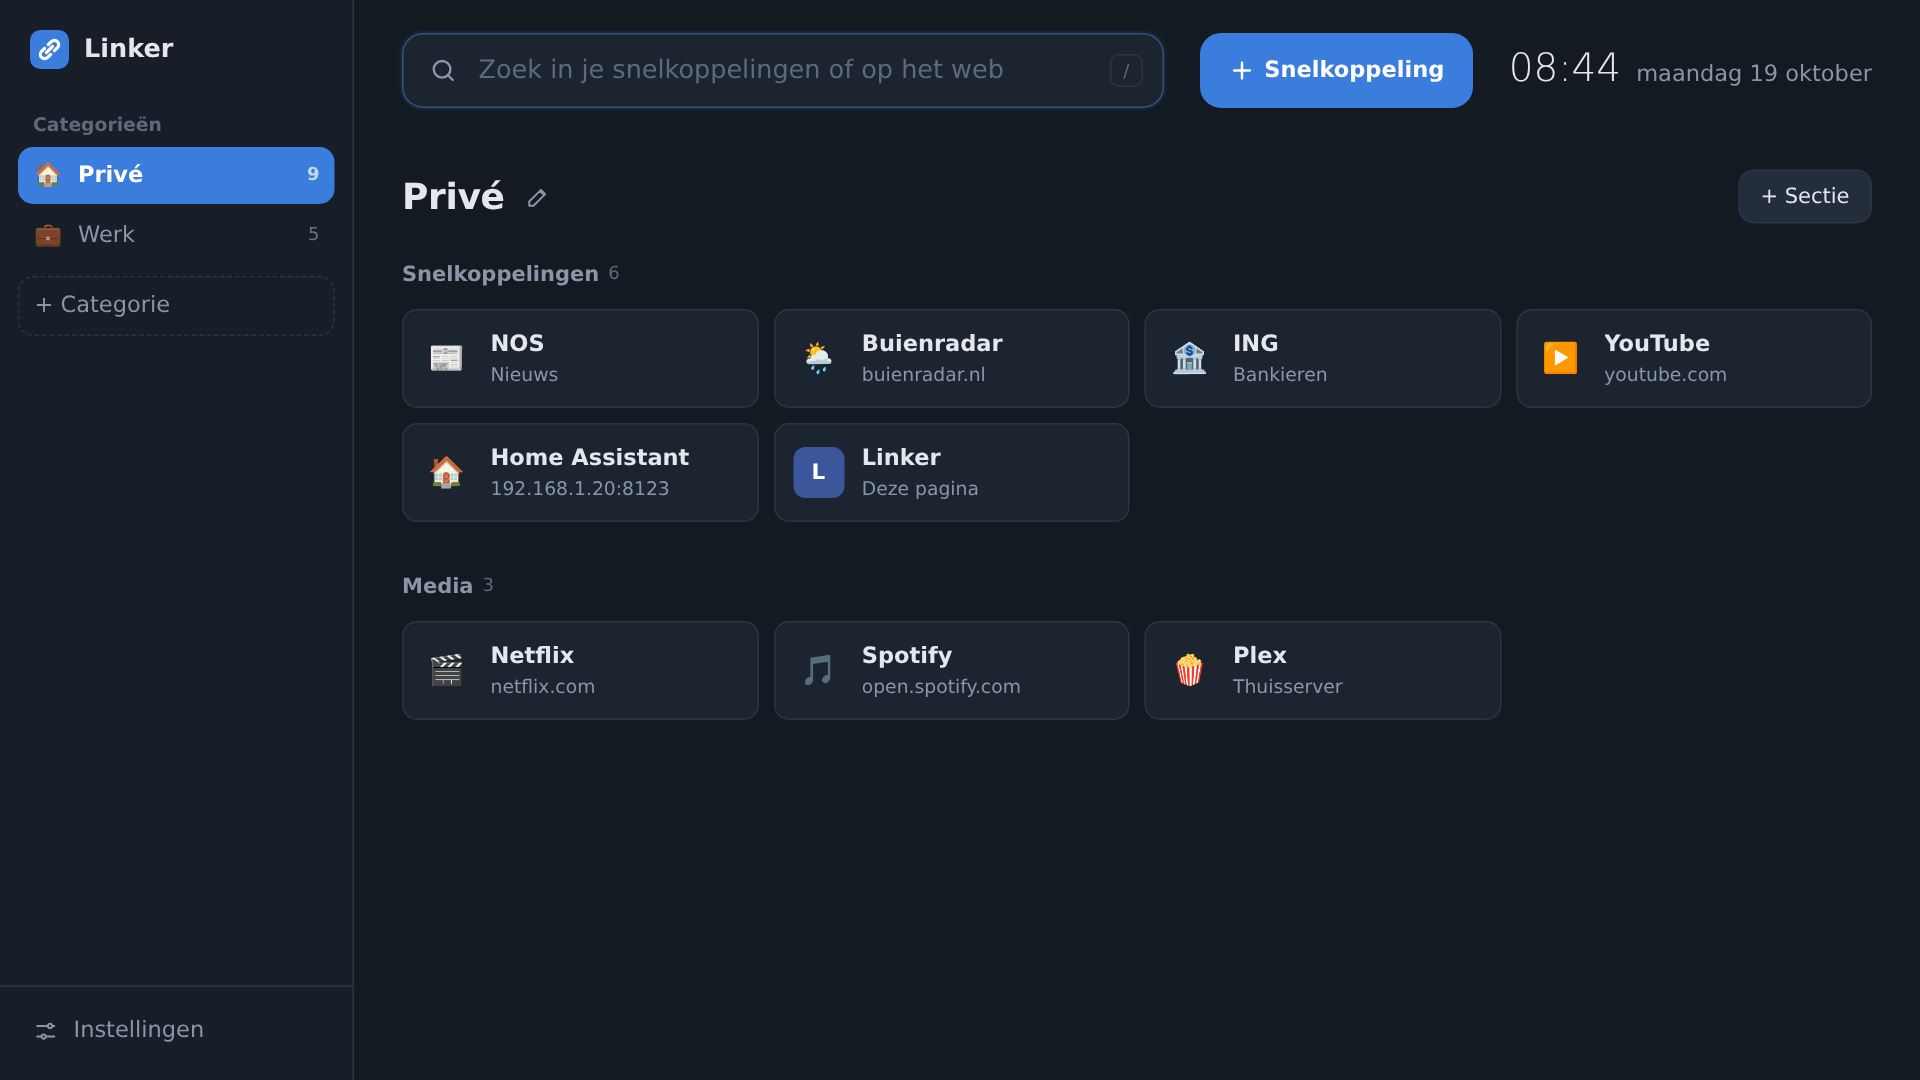
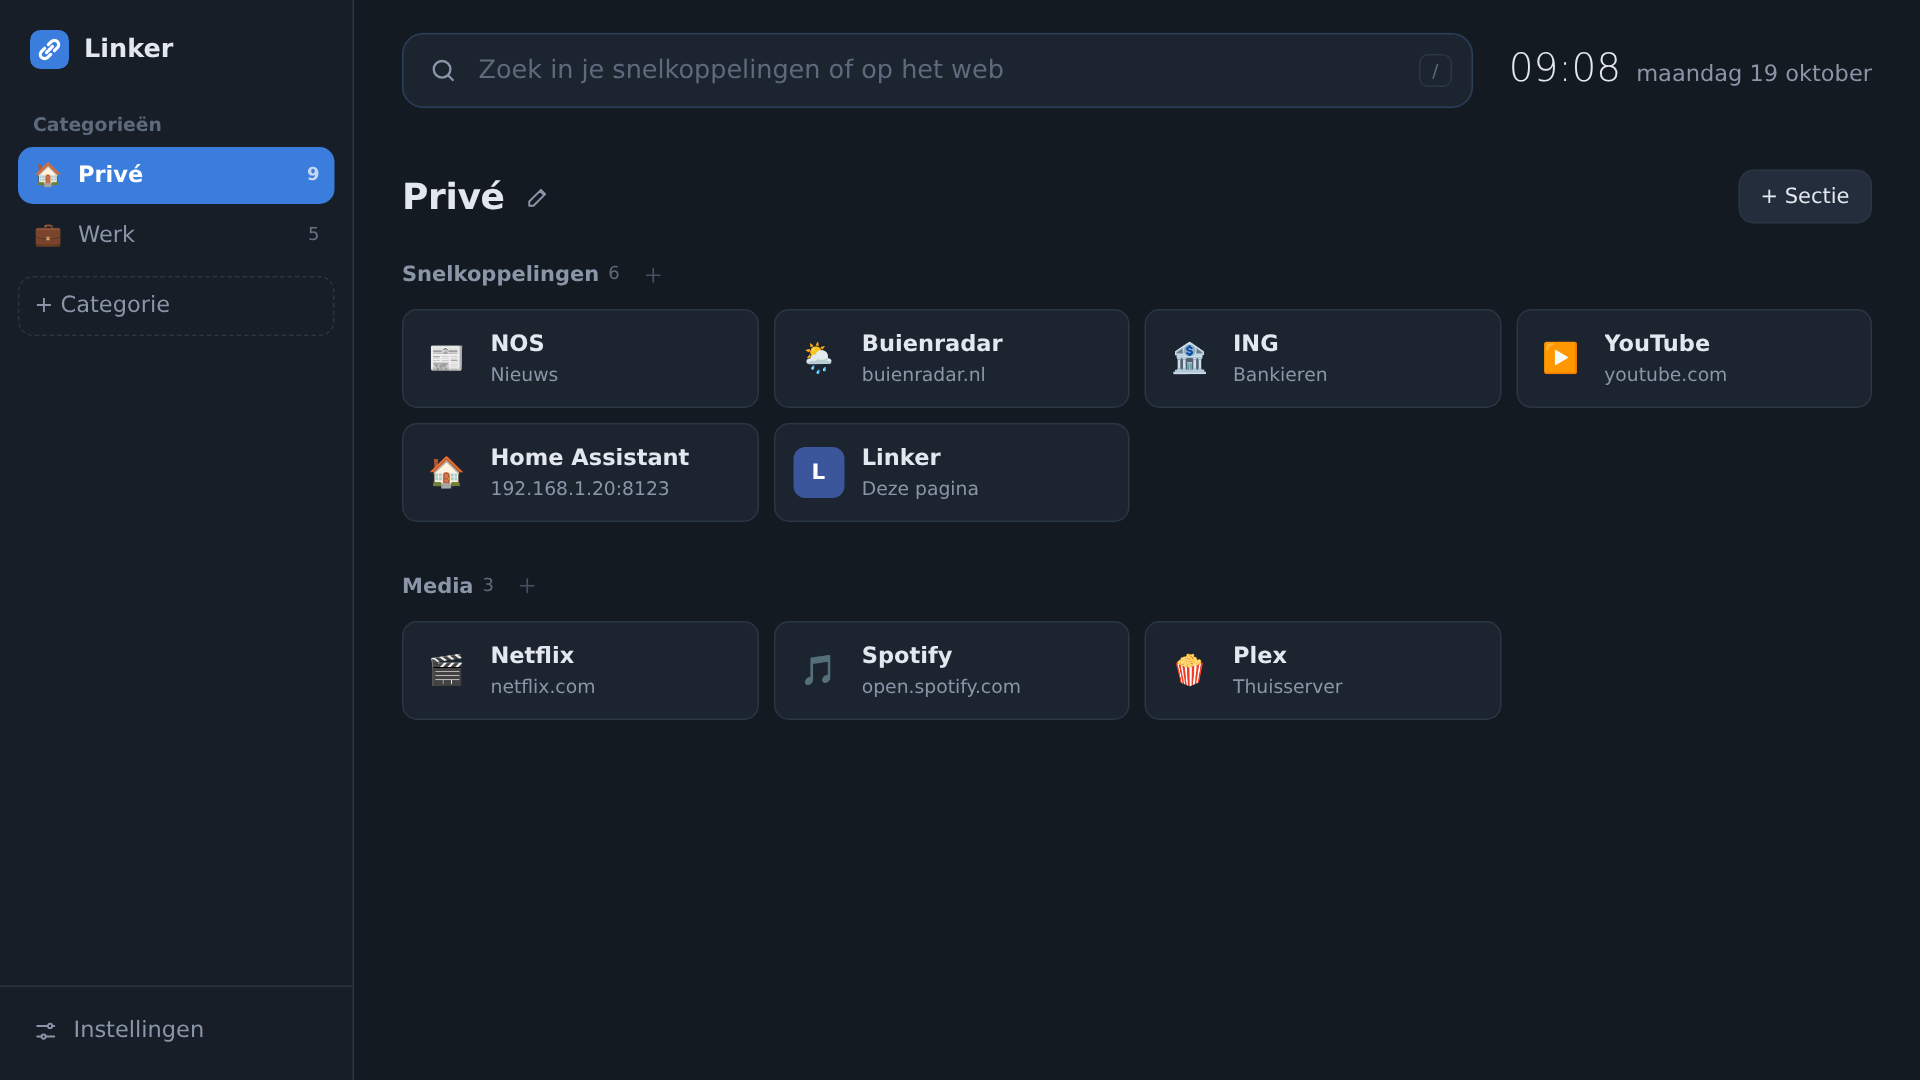
Subtiele + per sectie, online-controle direct zichtbaar en standaard uit (0.2.3)

Changed region(s): [[0.625, 0.0306, 0.7812, 0.1222], [0.8125, 0.0306, 0.8438, 0.0917]]

diff --git a/app/static/app.js b/app/static/app.js
@@ -120,8 +120,8 @@ function sectionHTML(sec, opts = {}) {
     <div class="section-head">
       <h2 class="section-name" id="s${sec.id}">${path ? `<span class="section-path">${esc(path)} / </span>` : ""}${esc(sec.name)}</h2>
       <span class="section-count">${links.length || ""}</span>
-      ${searching ? "" : `<span class="section-tools">
-        <button type="button" class="mini" data-add-link="${sec.id}" title="Snelkoppeling toevoegen">${SVG.plus}</button>
+      ${searching ? "" : `<button type="button" class="mini add-inline edit-only" data-add-link="${sec.id}" title="Snelkoppeling toevoegen aan ${esc(sec.name)}" aria-label="Snelkoppeling toevoegen aan ${esc(sec.name)}">${SVG.plus}</button>
+      <span class="section-tools">
         <button type="button" class="mini" data-sort="${sec.id}" title="Sorteren van A tot Z">${SVG.az}</button>
         <button type="button" class="mini" data-edit-section="${sec.id}" title="Sectie bewerken">${SVG.edit}</button>
         <span class="mini grip section-grip" title="Slepen om de sectie te verplaatsen">${SVG.grip}</span>
@@ -129,7 +129,7 @@ function sectionHTML(sec, opts = {}) {
     </div>
     <div class="cards">
       ${links.map(l => cardHTML(l, terms)).join("")}
-      ${searching || links.length ? "" : `<button type="button" class="add-card edit-only" data-add-link="${sec.id}">+ Snelkoppeling</button>`}
+      ${searching || links.length ? "" : `<button type="button" class="add-card edit-only" data-add-link="${sec.id}" aria-label="Snelkoppeling toevoegen">+</button>`}
     </div>
   </section>`;
 }
@@ -187,7 +187,7 @@ function renderBoard() {
   } else {
     board.innerHTML = col.sections.map(s => sectionHTML(s)).join("");
     if (!col.sections.some(s => s.links.length)) {
-      board.insertAdjacentHTML("afterbegin", `<p class="first-tip edit-only">Plak een adres met <kbd>Ctrl</kbd>+<kbd>V</kbd>, sleep een link uit een ander tabblad hierheen, of gebruik <b>+ Snelkoppeling</b>.</p>`);
+      board.insertAdjacentHTML("afterbegin", `<p class="first-tip edit-only">Plak een adres met <kbd>Ctrl</kbd>+<kbd>V</kbd>, sleep een link uit een ander tabblad hierheen, of klik op de <b>+</b> naast een sectie.</p>`);
     }
   }
   selectedId = null;
@@ -418,7 +418,6 @@ document.addEventListener("click", async e => {
   if (t.closest("[data-add-section]") || t.closest("#add-section")) return openName("section");
   if (t.closest("#edit-collection")) return openName("collection", currentId);
   if (t.closest("#add-collection")) return withEdit(() => openName("collection"));
-  if (t.closest("#add-shortcut")) return openLink(null, null);
   const sort = t.closest("[data-sort]");
   if (sort) {
     try { await api("POST", `/api/sections/${sort.dataset.sort}/sort`); await reload(); toast("Gesorteerd van A tot Z"); }
@@ -535,12 +534,7 @@ const setError = (form, msg) => ($(".form-error", form).textContent = msg || "")
 const dlgLink = $("#dlg-link"), formLink = $("#form-link");
 let linkEditId = null;
 
-let nameTouched = false, checkTouched = false, afterSave = null;
-
-function isLocalAddress(url) {
-  const host = hostOf(/^[a-z]+:\/\//i.test(url) ? url : "http://" + url).split(":")[0].toLowerCase();
-  return host === "localhost" || /^(\d{1,3}\.){3}\d{1,3}$/.test(host) || /\.(lan|local|home|internal)$/.test(host) || !host.includes(".");
-}
+let nameTouched = false, afterSave = null;
 
 async function openLink(id, sectionId, prefill = {}) {
   if (!state.can_edit && !(await openUnlock())) return;
@@ -560,10 +554,9 @@ async function openLink(id, sectionId, prefill = {}) {
   formLink.section_id.value = String(link?.section_id || sectionId || firstSection);
   if (!formLink.section_id.value) formLink.section_id.selectedIndex = 0;
   nameTouched = !!(link || prefill.name);
-  checkTouched = !!link;
-  formLink.check_enabled.checked = link ? link.check_enabled : (!!formLink.url.value && isLocalAddress(formLink.url.value));
+  formLink.check_enabled.checked = link ? link.check_enabled : false;
   $("details details", formLink).open = !!link?.check_url;
-  $("#more-opts").open = !!(link && (link.description || link.icon || link.check_enabled || link.check_url));
+  $("#more-opts").open = !!(link && (link.description || link.icon || link.check_url));
   $('[data-act="delete"]', formLink).hidden = !link;
   $("#name-hint").hidden = !!link;
   setError(formLink);
@@ -594,10 +587,8 @@ function fetchTitle() {
 formLink.url.addEventListener("input", () => {
   titleFor = "";
   fetchTitle();
-  if (!checkTouched && !linkEditId) formLink.check_enabled.checked = !!formLink.url.value.trim() && isLocalAddress(formLink.url.value.trim());
 });
 formLink.name.addEventListener("input", () => (nameTouched = formLink.name.value.trim() !== ""));
-formLink.check_enabled.addEventListener("change", () => (checkTouched = true));
 
 let previewTimer = null;
 function updatePreview() {

diff --git a/app/templates/index.html b/app/templates/index.html
@@ -46,9 +46,6 @@
                aria-describedby="search-hint">
         <kbd class="slash" aria-hidden="true">/</kbd>
       </div>
-      <button type="button" class="btn primary add-shortcut edit-only" id="add-shortcut" title="Snelkoppeling toevoegen (of plak een adres met Ctrl+V)">
-        <svg viewBox="0 0 24 24" aria-hidden="true"><path d="M12 5v14M5 12h14"/></svg><span>Snelkoppeling</span>
-      </button>
       <p class="clock" id="clock"><time id="time"></time><span id="date"></span></p>
     </div>
     <p class="search-hint" id="search-hint" aria-live="polite"></p>
@@ -74,8 +71,9 @@
       <label class="wide">Adres<input name="url" required placeholder="https://voorbeeld.nl of 192.168.1.10:8989" inputmode="url" autocomplete="off"></label>
       <label class="wide">Naam <span class="opt" id="name-hint">(leeg = titel van de pagina)</span><input name="name" maxlength="80"></label>
       <label class="wide">Categorie en sectie<select name="section_id"></select></label>
+      <label class="check wide" title="Toont een groen of rood bolletje bij de snelkoppeling."><input type="checkbox" name="check_enabled"> Controleren of hij online is</label>
       <details class="wide more" id="more-opts">
-        <summary>Meer opties: omschrijving, icoon, online-controle</summary>
+        <summary>Meer opties: omschrijving, icoon</summary>
         <div class="fields">
           <label class="wide">Omschrijving <span class="opt">(optioneel)</span><input name="description" maxlength="200" placeholder="bv. Teamplanning"></label>
           <div class="wide icon-field">
@@ -84,9 +82,8 @@
             <div class="icon-preview" id="icon-preview" aria-hidden="true"></div>
           </div>
           <p class="help wide">Leeg laten pakt het icoon van de site zelf. Typ de naam van een app (<code>outlook</code>, <code>plex</code>, <code>home-assistant</code>) voor een icoon uit dashboard-icons of selfh.st, plak een afbeeldingsadres, upload een eigen bestand of gebruik een emoji.</p>
-          <label class="check wide" title="Toont een groen of rood bolletje. Handig voor diensten in je thuisnetwerk."><input type="checkbox" name="check_enabled"> Controleren of hij online is</label>
           <details class="wide">
-            <summary>Ander adres voor de controle</summary>
+            <summary>Ander adres voor de online-controle</summary>
             <label>Controle-adres<input name="check_url" placeholder="http://sonarr:8989"></label>
             <p class="help">Handig als de snelkoppeling via je domein loopt, maar Linker de dienst intern sneller bereikt (bv. via de containernaam).</p>
           </details>

diff --git a/app/static/style.css b/app/static/style.css
@@ -293,8 +293,6 @@ body:not(.can-edit) .edit-only, body:not(.can-edit) .section-tools, body:not(.ca
 
 /* ------------------------------------------------ snelkoppelingen verzamelen */
 .side-label { margin: 6px 10px 6px; font-size: 12.5px; font-weight: 600; color: var(--faint); }
-.add-shortcut { gap: 6px; height: 50px; padding: 0 18px; border-radius: var(--radius-lg); font-size: 15px; flex: none; }
-.add-shortcut svg { width: 18px; height: 18px; fill: none; stroke: currentColor; stroke-width: 2.2; stroke-linecap: round; }
 .bookmarklet { cursor: grab; border-style: dashed; }
 .first-tip { margin: 0 0 18px; padding: 12px 14px; border: 1px dashed var(--line); border-radius: var(--radius); color: var(--muted); font-size: 14px; }
 .first-tip kbd { font: 12px var(--font); padding: 0 5px; border: 1px solid var(--line); border-radius: 4px; }
@@ -304,9 +302,14 @@ body:not(.can-edit) .edit-only, body:not(.can-edit) .section-tools, body:not(.ca
 @media (max-width: 760px) {
   .side-label { display: none; }
   .topbar { gap: 8px; }
-  .add-shortcut { width: 50px; padding: 0; }
-  .add-shortcut span { display: none; }
   .first-tip { display: none; }
 }
 .dlg details.more { border-top: 1px solid var(--line); padding-top: 12px; }
 .dlg details.more > .fields { margin-top: 12px; }
+
+/* Subtiele + naast de sectienaam */
+.add-inline { width: 24px; height: 24px; color: var(--faint); opacity: .7; }
+.add-inline svg { width: 15px; height: 15px; }
+.section-head:hover .add-inline, .add-inline:focus-visible { opacity: 1; color: var(--accent); }
+.has-bg .add-inline { color: rgba(255, 255, 255, .7); }
+.add-card { font-size: 20px; text-align: center; color: var(--faint); }

diff --git a/README.md b/README.md
@@ -10,7 +10,7 @@ Alles draait in één container met SQLite. De pagina laadt geen scripts, fonts 
 
 - **Categorieën → secties → snelkoppelingen.** Bij de eerste start staan *Privé* en *Werk* klaar. Wisselen met een klik of `Alt`+`1` tot `9`; Linker onthoudt waar je was.
 - **Snel toevoegen**, op vier manieren:
-  - de knop **+ Snelkoppeling**: vul alleen het adres in, de naam wordt de titel van de pagina;
+  - de **+** naast een sectie: vul alleen het adres in, de naam wordt de titel van de pagina;
   - **plak** een adres met `Ctrl`+`V` ergens op de pagina;
   - **sleep** een link of het adres uit een ander tabblad op de pagina (of op een sectie);
   - de **bladwijzer-knop "+ Naar Linker"** (te vinden in *Instellingen*): sleep hem naar je bladwijzerbalk en bewaar elke website met één klik. Na het opslaan ga je terug naar de pagina.
@@ -20,7 +20,7 @@ Alles draait in één container met SQLite. De pagina laadt geen scripts, fonts 
   - `Enter` opent de beste treffer, `↑` `↓` kiest een andere, `Esc` wist.
   - `Shift`+`Enter` zoekt op het web: DuckDuckGo, Google, Startpage, Bing, Brave, Kagi, Ecosia of een eigen zoekmachine.
 - **Iconen** zonder gedoe: automatisch het icoon van de site (ook voor diensten in je thuisnetwerk), of een appnaam zoals `outlook` of `plex` uit [dashboard-icons](https://github.com/homarr-labs/dashboard-icons) / [selfh.st/icons](https://github.com/selfhst/icons), een eigen upload, een afbeeldingsadres of een emoji. Iconen worden in `/config` bewaard.
-- **Online-controle** (optioneel per snelkoppeling): een groen of rood bolletje, ook op de categorie in de zijbalk. Staat standaard aan voor adressen in je thuisnetwerk.
+- **Online-controle** (optioneel per snelkoppeling): een groen of rood bolletje, ook op de categorie in de zijbalk. Zet je aan met het vinkje bij het toevoegen; standaard staat het uit.
 - **Uiterlijk**: licht, donker, OLED of automatisch, een eigen accentkleur, normale of compacte kaarten, en een eigen achtergrondafbeelding.
 - **Importeren** van de bladwijzers uit je browser (HTML-export uit Chrome, Firefox, Edge of Safari; elke map wordt een sectie), een ctrlTAB-back-up of een Linkwarden-export.
 - **Back-up** downloaden en terugzetten als JSON.
@@ -85,8 +85,8 @@ Open daarna http://localhost:5656.
 
 Alle wijzigingen per versie staan in [CHANGELOG.md](CHANGELOG.md) en onder [Releases](https://github.com/RichrdJ/linker/releases). Het versienummer van je installatie staat onderaan *Instellingen*.
 
-- `:latest` volgt `main`, `:0.2.2` is een vaste versie.
-- Wil je zelf bepalen wanneer je updatet? Zet dan een vast versienummer in `portainer-stack.yml`, bijvoorbeeld `:0.2.2`.
+- `:latest` volgt `main`, `:0.2.3` is een vaste versie.
+- Wil je zelf bepalen wanneer je updatet? Zet dan een vast versienummer in `portainer-stack.yml`, bijvoorbeeld `:0.2.3`.
 
 **Nieuwe versie uitbrengen:** werk `CHANGELOG.md` en `app/VERSION` bij, commit, en push met een tag:
 

diff --git a/CHANGELOG.md b/CHANGELOG.md
@@ -5,6 +5,12 @@ Versienummers volgen [Semantic Versioning](https://semver.org/lang/nl/): het mid
 
 Updaten in Portainer: open de stack → **Pull and redeploy**. De database wordt bij het opstarten automatisch bijgewerkt en je links blijven bewaard.
 
+## [0.2.3] - 2026-10-19
+
+### Gewijzigd
+- De grote knop *+ Snelkoppeling* naast de zoekbalk is weg. Toevoegen gaat nu met een subtiele **+** naast elke sectienaam, die direct in die sectie toevoegt. Plakken, slepen en de bladwijzer-knop werken zoals voorheen.
+- Het vinkje **Controleren of hij online is** staat direct zichtbaar in het toevoegvenster, niet meer onder *Meer opties*. Het staat standaard uit, ook voor adressen in je thuisnetwerk.
+
 ## [0.2.2] - 2026-10-19
 
 ### Gewijzigd
@@ -50,6 +56,7 @@ Updaten in Portainer: open de stack → **Pull and redeploy**. De database wordt
 - Installeerbaar als app (PWA).
 - Docker-image voor amd64 en arm64 via GitHub Actions, met PUID/PGID.
 
+[0.2.3]: https://github.com/RichrdJ/linker/compare/v0.2.2...v0.2.3
 [0.2.2]: https://github.com/RichrdJ/linker/compare/v0.2.1...v0.2.2
 [0.2.1]: https://github.com/RichrdJ/linker/compare/v0.2.0...v0.2.1
 [0.2.0]: https://github.com/RichrdJ/linker/compare/v0.1.0...v0.2.0
